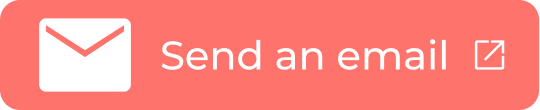
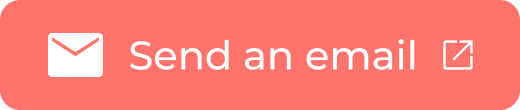
Mobile friendly and sticky navbar

Changed region(s): [[0.0615, 0.1636, 0.9538, 0.8455], [0.9846, 0.0545, 1.0, 0.9545], [0.9538, 0.9545, 0.9846, 0.9818]]

diff --git a/style.css b/style.css
@@ -14,6 +14,10 @@
   box-sizing: border-box;
 }
 
+html {
+  scroll-behavior: smooth;
+}
+
 body {
   font-family: 'Montserrat', Montserrat, sans-serif;
   background-color: var(--bg);
@@ -51,17 +55,28 @@ header {
   display: flex;
   justify-content: flex-end;
   align-items: center;
-  padding: 3rem 6rem;
+  padding: 1.5rem 6rem;
   background-color: white;
-  position: relative;
+  position: sticky;
+  top: 0;
+  z-index: 1000;
 }
 
 nav {
   display: flex;
   gap: 5rem;
   align-items: center;
-  margin: 0 auto;         /* centers the nav inside the header */
-  justify-content: center;/* center items if nav takes full width */
+  margin: 0 auto;          /* centers the nav inside the header */
+  justify-content: center; /* center items if nav takes full width */
+}
+
+@media (max-width: 500px) {
+  nav {
+    gap: 1.5rem;
+  }
+  nav a{
+    min-width: 16px;
+  }
 }
 
 nav a {
@@ -101,6 +116,12 @@ main {
   padding: 60px 0; /* space around the sliding logos (top + bottom, left + right) */
   white-space: nowrap;
   position: relative;
+  @media (max-width: 600px) {
+    .logos-slide img {
+      height: 40px;
+      margin: 0 30px; /* adjust spacing for smaller screens */
+    }
+  }
 }
 
 .logos:before, 
@@ -116,11 +137,17 @@ main {
 .logos:before {
   left: 0;
   background: linear-gradient(to right, #ffffff 0%, rgba(255, 255, 255, 0) 100%);
+  @media (max-width: 600px) {
+    display: none;
+  }
 }
 
 .logos:after {
   right: 0;
   background: linear-gradient(to left, #ffffff 0%, rgba(255, 255, 255, 0) 100%);
+    @media (max-width: 600px) {
+    display: none;
+  }
 }
 
 .logos:hover .logos-slide {
@@ -150,7 +177,7 @@ main {
 }
 
 .profile-image {
-  width: clamp(120px, 30vw, 320px);
+  width: clamp(320px, 30vw, 320px);
   aspect-ratio: 1 / 1;
   border-radius: 20px;
   margin: 20px;
@@ -254,16 +281,28 @@ main {
 }
 
 /* ===== Masonry Gallery ===== */
-.gallery img{
+.gallery img {
   width: 100%;
   margin-bottom:20px;
 }
 
-.gallery{
+.gallery {
   column-count: 3;
   column-gap: 20px;
-  margin:20px;
+  padding: 20px;
   border-radius: 30px;
+}
+
+@media (max-width: 768px) {
+  .gallery {
+    column-count: 2;
+  }
+}
+
+@media (max-width: 500px) {
+  .gallery {
+    column-count: 1;
+  }
 }
 
 .gallery-item {
@@ -329,7 +368,7 @@ main {
   background-color: rgba(0, 0, 0, 0.8); /* darker dim background */
   justify-content: center;
   align-items: center;
-  z-index: 1000;
+  z-index: 900;
   padding: 0;
 }
 
@@ -561,6 +600,15 @@ body.modal-open {
   cursor: pointer;
 }
 
+@media (max-width: 600px) {
+  .contact-buttons {
+    flex-direction: column;
+    gap: 1rem;
+  }
+  .contact-icon {
+    width: 220px;    /* adjust size for smaller screens */
+  }
+}
 
 /* ===== Footer ===== */
 footer {

diff --git a/index.html b/index.html
@@ -16,9 +16,9 @@
         </a>
     -->
     <nav>
-      <a href="#">work</a>
-      <a href="#">about</a>
-      <a href="#">contact</a>
+      <a href="#work">work</a>
+      <a href="#about">about</a>
+      <a href="#contact">contact</a>
     </nav>
   </header>
 
@@ -29,7 +29,7 @@
           <h2 class="title">Multidisciplinary Designer</h2>
           <p>An analytical designer blending UI/UX, motion, and graphic design to create seamless, functional, and aesthetic experiences.</p>
         </div>
-      </section>
+    </section>
 
     <div class="logos">
       <div class="logos-slide">
@@ -74,7 +74,7 @@
     </section> 
     -->
 
-   <section class="gallery">
+   <section id="work" class="gallery">
     <script>
       const gallery = document.querySelector('.gallery');
       const imageCount = 17;
